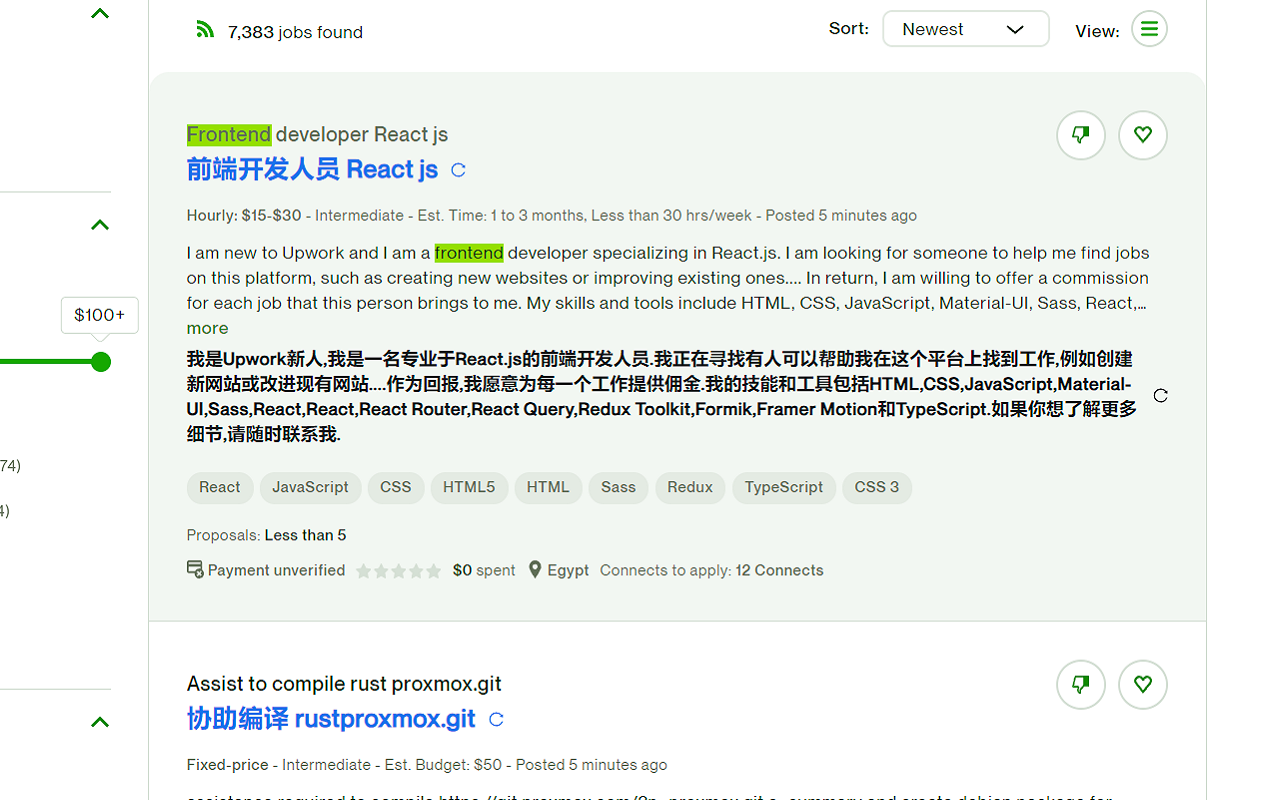
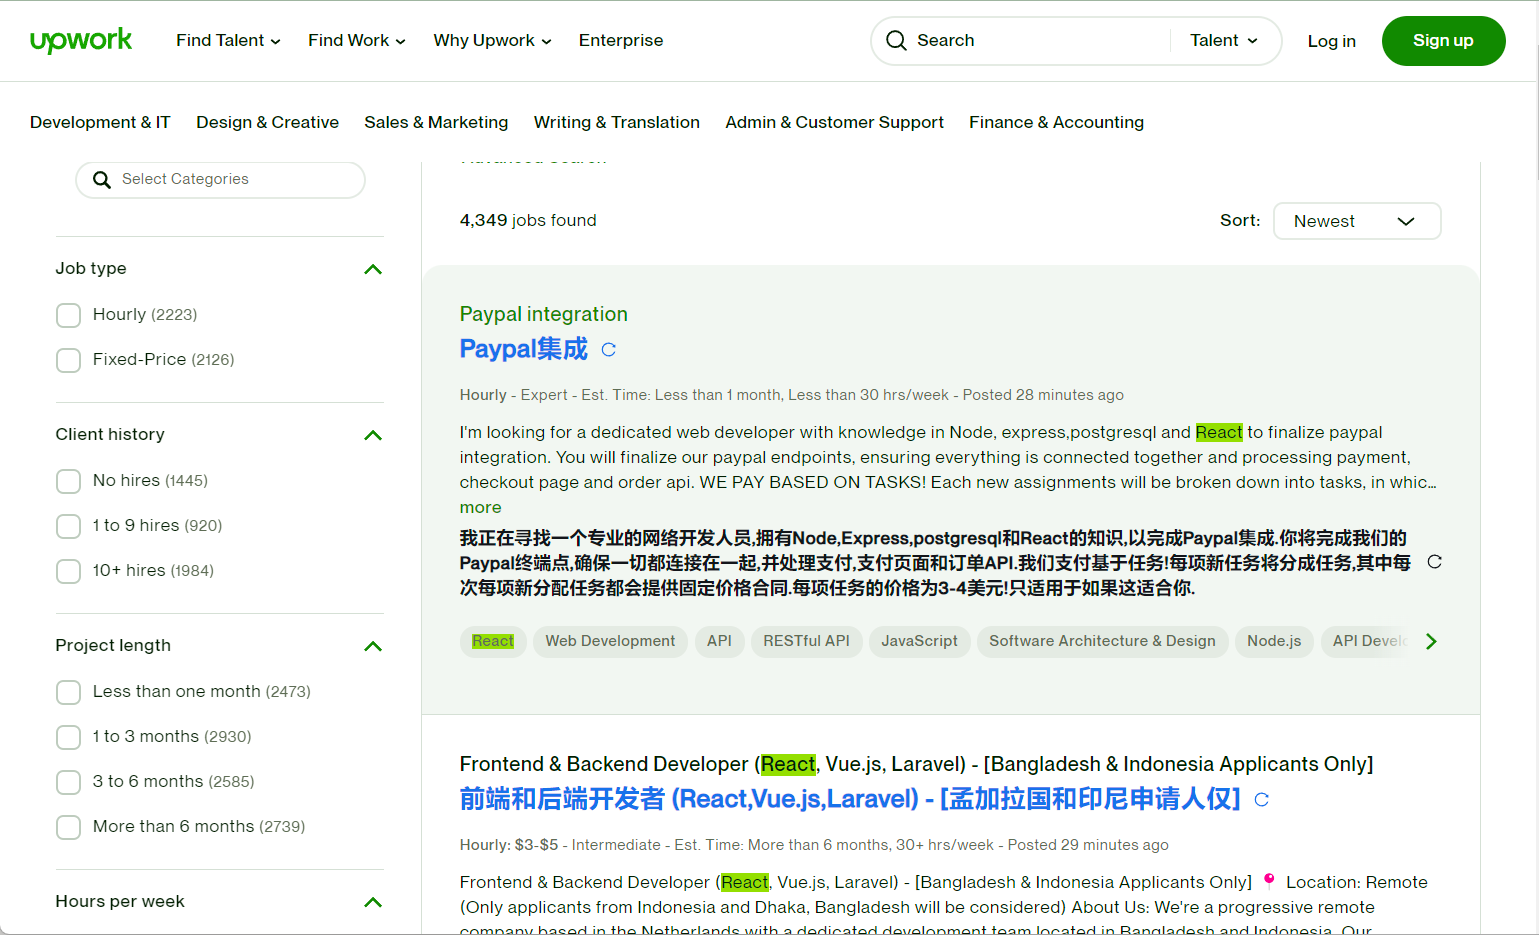
feat: add img of upwork and freelancer

diff --git a/src/pages/Websites.tsx b/src/pages/Websites.tsx
@@ -1,10 +1,70 @@
 import React from "react";
-import {Card, CardContent} from "@mui/material";
+// Import Swiper React components
+import {Swiper, SwiperSlide} from 'swiper/react';
+import {Navigation} from 'swiper/modules';
+import CardContent from '@mui/material/CardContent';
+import CardMedia from '@mui/material/CardMedia';
+import Typography from '@mui/material/Typography';
+
+// Import Swiper styles
+import 'swiper/css';
+import 'swiper/css/navigation';
+import {Divider} from "../models/components";
+
+const ImageCard = ({src, description}: any) => (
+    <div style={{
+        border: '1px solid var(--color-platinum)',
+        borderRadius: 4,
+        margin: 2,
+        // background: 'var(--color-ash-gray)'
+    }}>
+        <CardMedia
+            sx={{height: 340, margin: '12px', backgroundSize: 'contain'}}
+            image={src}
+            title="green iguana"
+        />
+        <CardContent style={{
+            textAlign: 'center',
+        }}>
+            <Typography variant="body2" color="text.secondary">
+                {description}
+            </Typography>
+        </CardContent>
+    </div>
+)
 
 const Websites = () => {
+
     return (
-        <Card>
+        <>
             <CardContent>
+                <section>
+                    <h4>我们目前适配的网站（持续适配中，欢迎提供意见）：</h4>
+                </section>
+                <Swiper
+                    // @ts-ignore
+                    navigation
+                    modules={[Navigation]}
+                    onSlideChange={() => console.log('slide change')}
+                    onSwiper={(swiper) => console.log(swiper)}
+                >
+                    <SwiperSlide>
+                        <ImageCard
+                            src="/imgs/freelancer.png"
+                            description={<a href="https://www.freelancer.com/"
+                                            target="_blank">freelancer</a>}
+                        />
+                    </SwiperSlide>
+                    <SwiperSlide>
+                        <ImageCard
+                            src="/imgs/upwork.png"
+                            description={
+                                <a href="https://www.upwork.com/" target="_blank">upwork</a>
+                            }
+                        />
+                    </SwiperSlide>
+                </Swiper>
+                <Divider/>
                 <div style={{
                     textAlign: "center",
                     marginTop: 20,
@@ -15,26 +75,6 @@ const Websites = () => {
                         )</h3>
                     <h4>仅将网站重要的信息翻译后填充回网页下方。方便您更容易的查看相关信息。</h4>
                 </div>
-                <div style={{
-                    textAlign: 'center'
-                }}>
-                    <img src="/imgs/upwork.png" style={{
-                        width: 400,
-                        height: 300,
-                    }}/>
-                </div>
-                <section style={{fontSize: 16, fontWeight: '600', marginTop: 30,}}>
-                    <div>我们目前适配的网站（持续适配中，欢迎提供意见）：</div>
-                    <ul>
-                        <li>
-                            <a href="https://www.freelancer.com/" target="_blank">freelancer(接个人项目)</a>
-                        </li>
-                        <li>
-                            <a href="https://www.upwork.com/" target="_blank">upwork(接个人项目)</a>
-                        </li>
-                    </ul>
-                </section>
-
                 <section>
                     <div>翻译服务是自建的服务器，如遇到网络问题，请点击刷新按钮。</div>
                 </section>
@@ -42,7 +82,7 @@ const Websites = () => {
                     <div style={{padding: '12px 0', color: 'gray'}}>任何意见欢迎联系 madison.mh.ma@gmail.com</div>
                 </section>
             </CardContent>
-        </Card>
+        </>
     )
 }
 
